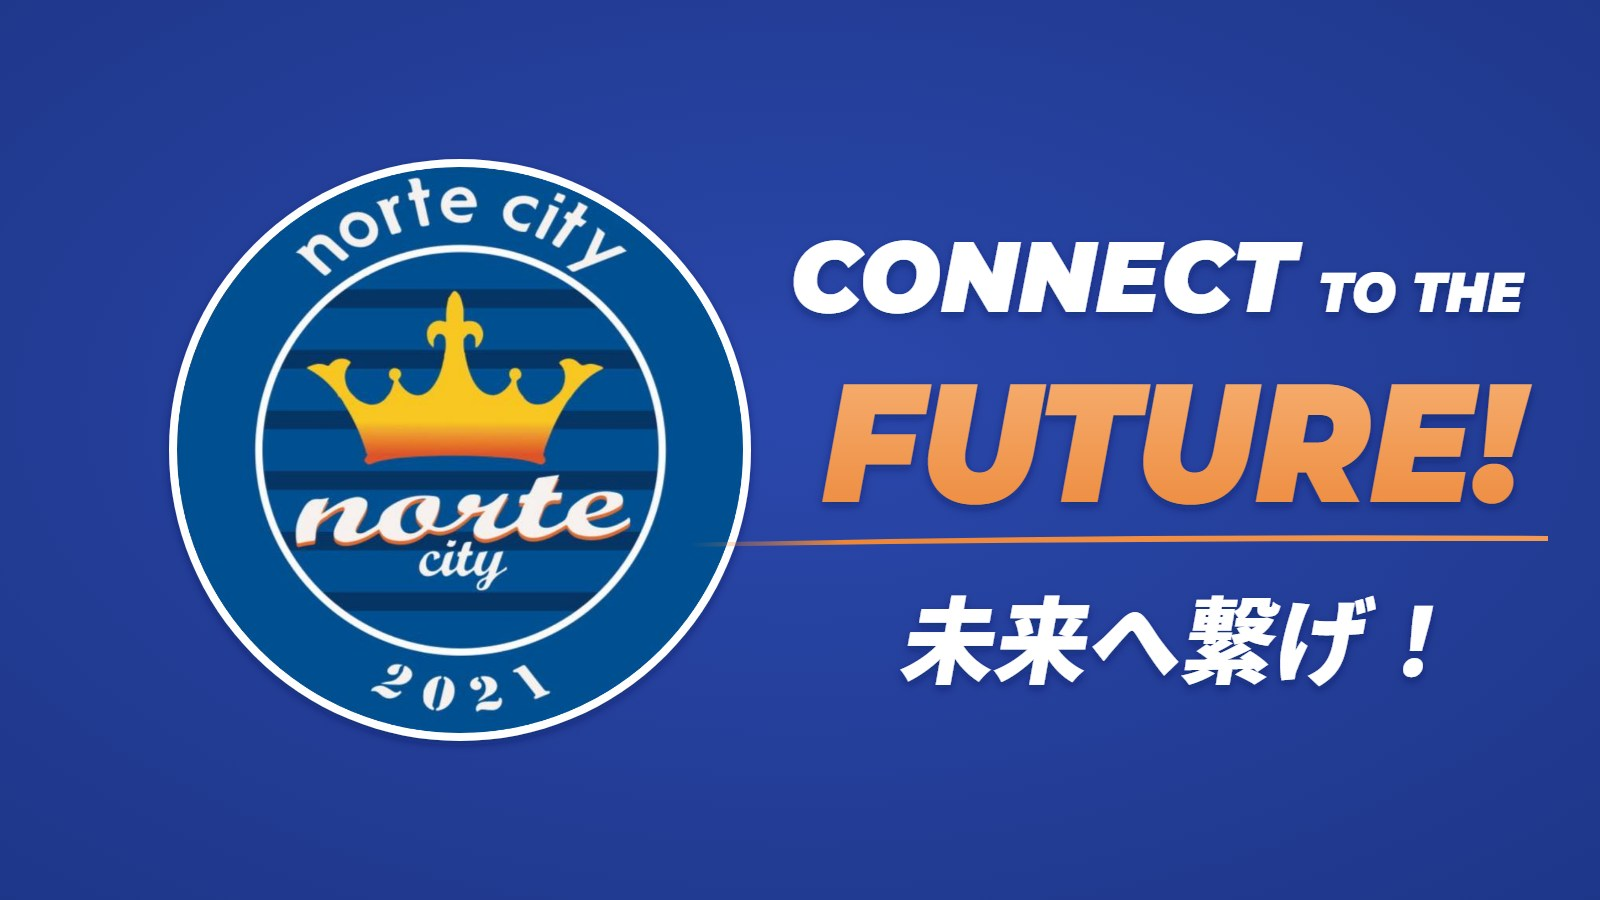
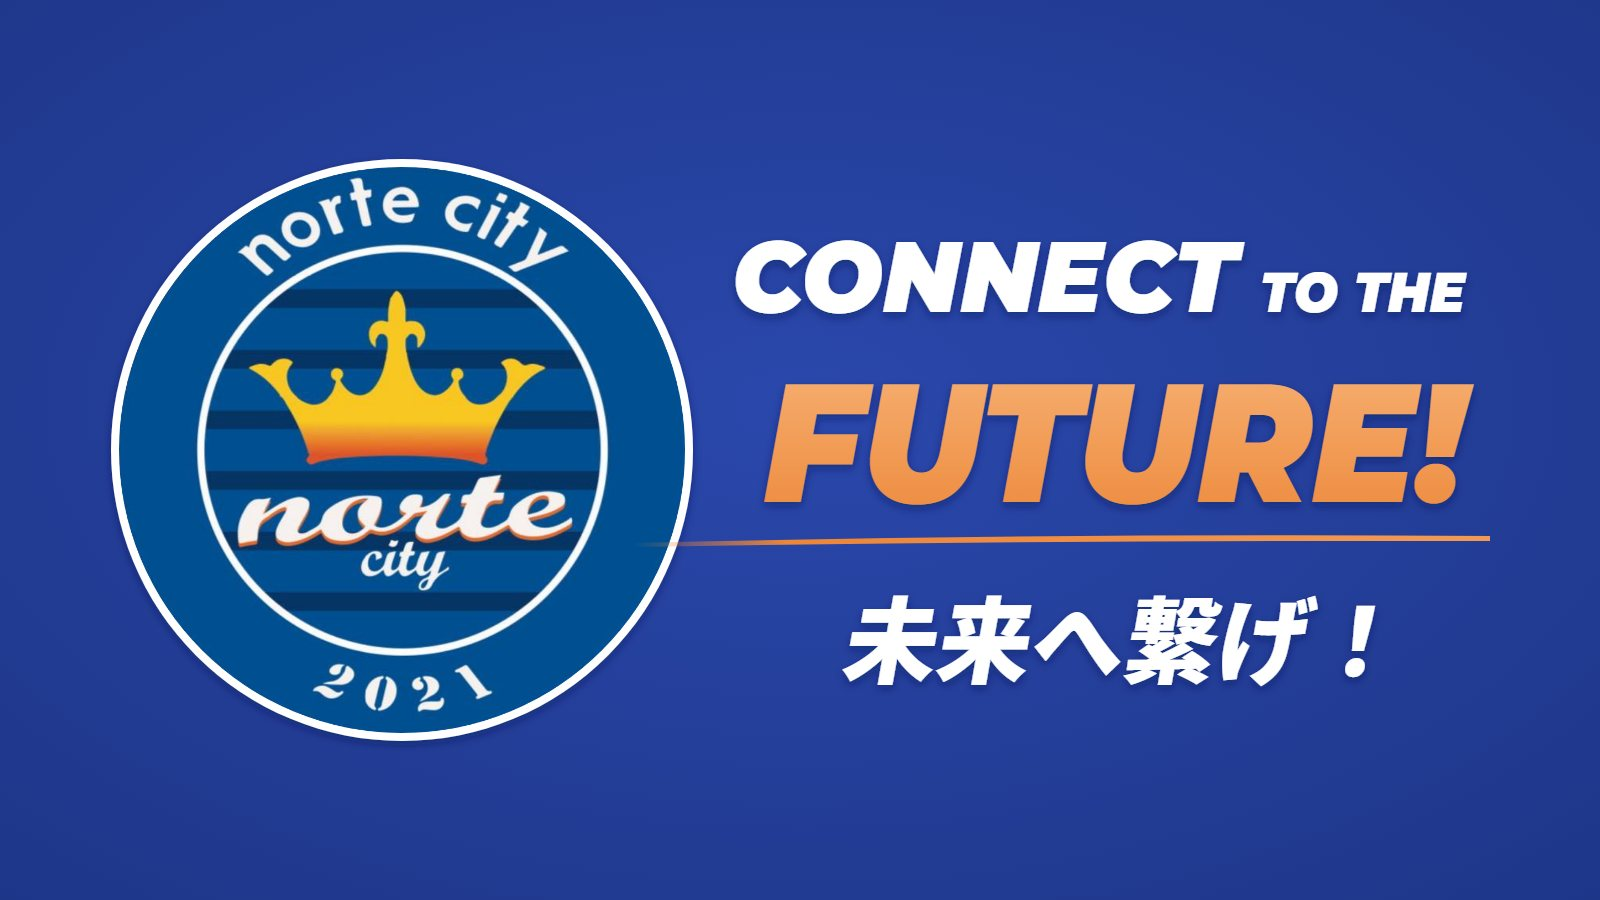
スライド: CONNECTバナーの左余白を調整／「すべてを魅了しろ FASCINATE ALL」バナーを追加

Changed region(s): [[0.0625, 0.1556, 0.9688, 0.84], [0.5312, 0.6533, 0.9062, 0.7778], [0.9375, 0.5911, 0.9688, 0.6222]]

diff --git a/index.html b/index.html
@@ -95,6 +95,10 @@
           <img src="images/slide-sekai.jpg" alt="norte city FOOTBALL CLUB 世界を越える選手になれ!!" width="1600" height="900">
         </a>
 
+        <a class="hs-slide" href="team.html">
+          <img src="images/slide-fascinate.jpg" alt="すべてを魅了しろ ～FASCINATE ALL～" width="1600" height="900">
+        </a>
+
         <a class="hs-slide" href="news-post.html?id=selection-2027">
           <div class="ph ph--orange" data-bg="SELECTION">
             <span class="ph-label ph-label--blue">NEWS</span>
